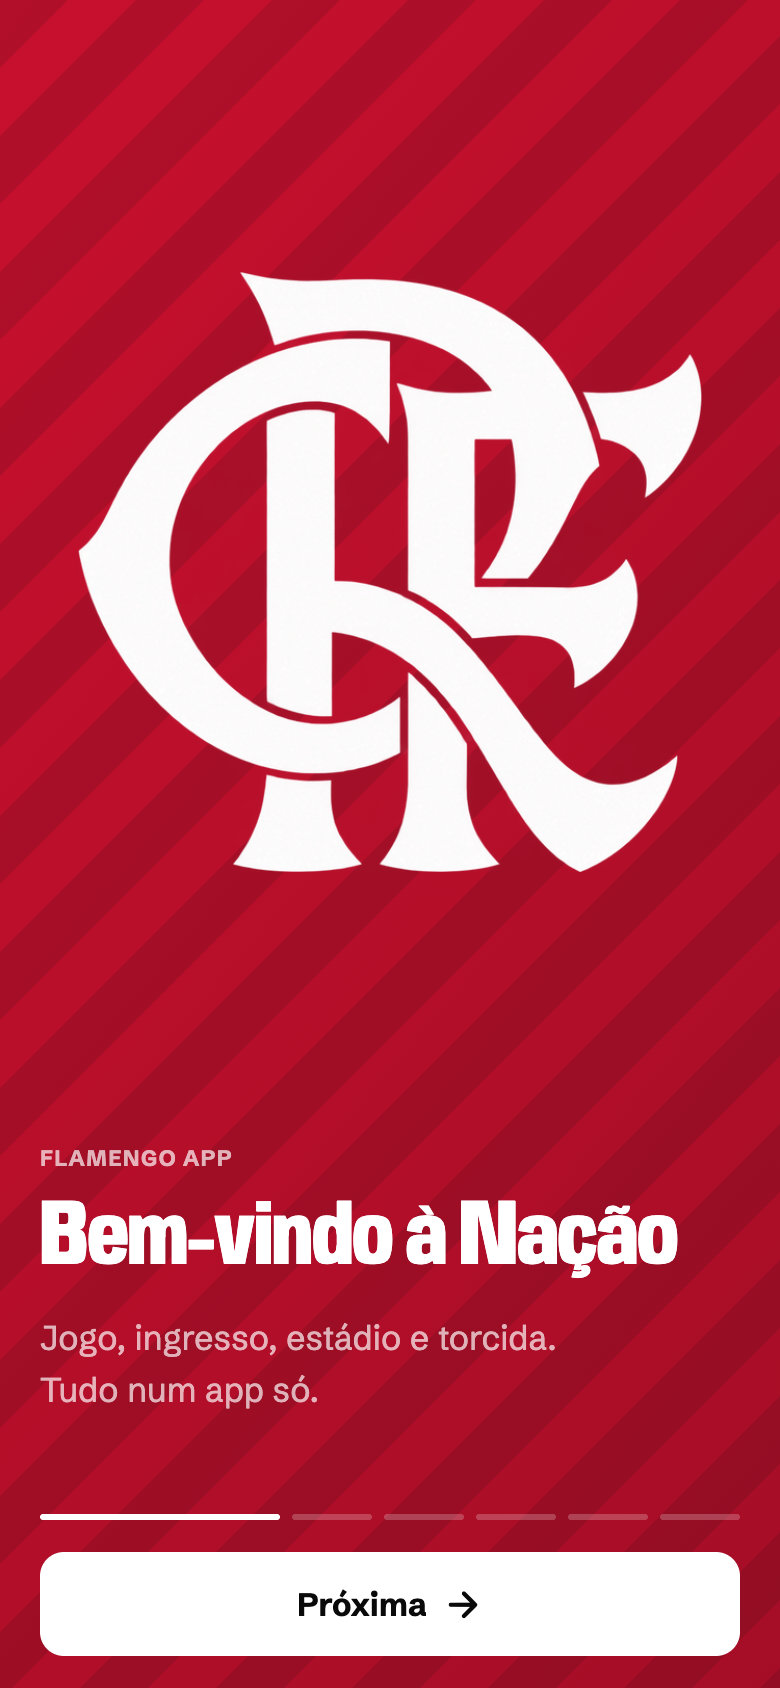
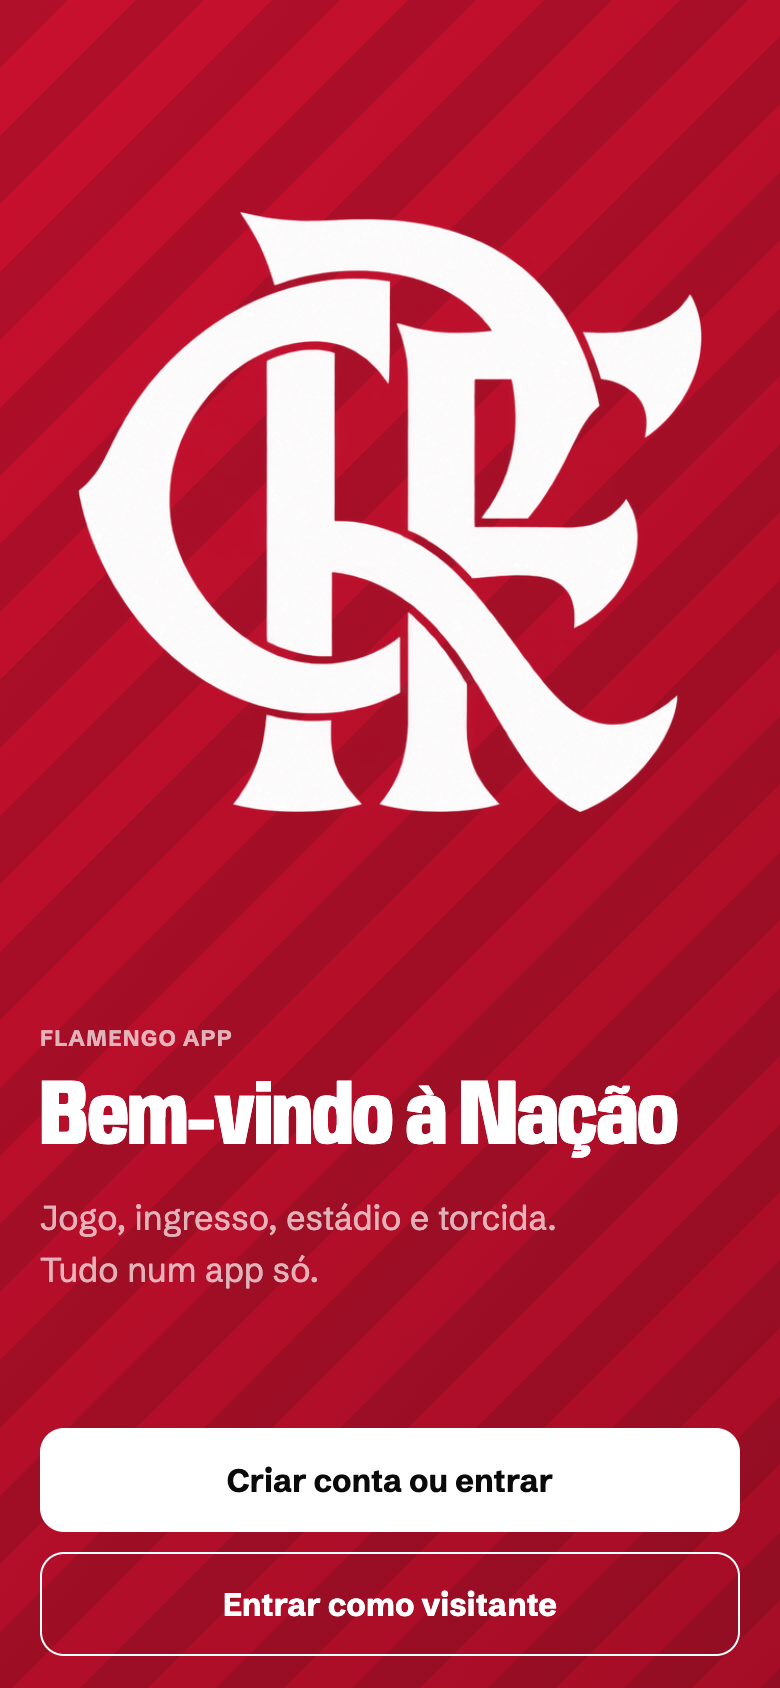
feat(onboarding): abertura fixa primeiro; carrossel depois de entrar
- primeira tela: só a abertura vermelha com criar conta ou visitante
- carrossel com as cinco áreas vem depois de entrar
- ídolos e alertas só para quem entrou com conta
- visitante termina o carrossel em "Entrar no app"

Changed region(s): [[0.0308, 0.5853, 0.9538, 0.9858], [0.0923, 0.1232, 0.9231, 0.5237], [0.2462, 0.5853, 0.2769, 0.6161]]

diff --git a/src/__tests__/guidance.test.tsx b/src/__tests__/guidance.test.tsx
@@ -16,6 +16,7 @@ jest.mock('@react-native-async-storage/async-storage', () =>
 );
 jest.mock('@expo/vector-icons', () => ({ Ionicons: () => null }));
 let mockOwner = 'visitor';
+let mockGuest = false;
 let mockFocused = true;
 const mockUpdateProfile = jest.fn();
 const mockFavorite = jest.fn();
@@ -28,8 +29,8 @@ jest.mock('@/features/auth/AuthProvider', () => ({
   useAuth: () => ({
     ready: true,
     session: mockOwner === 'visitor' ? null : { user: { id: mockOwner } },
-    isGuest: true,
-    accountProfile: null,
+    isGuest: mockGuest,
+    accountProfile: mockGuest ? null : { id: mockOwner },
     registering: false,
     enterAsGuest: mockEnterAsGuest,
   }),
@@ -95,6 +96,7 @@ describe('recursos nas boas-vindas e primeiro uso', () => {
     jest.clearAllMocks();
     mockFocused = true;
     mockOwner = `test-${++run}`;
+    mockGuest = false;
   });
   afterEach(async () => {
     await act(async () => {
@@ -102,19 +104,28 @@ describe('recursos nas boas-vindas e primeiro uso', () => {
     });
   });
 
-  it('boas-vindas: carrossel, conta, ídolos e alertas, sem mexer nas preferências', async () => {
+  const throughTour = async (done: string) => {
+    expect(has('O jogo no seu bolso')).toBe(true);
+    for (let i = 0; i < 4; i++) await press('Próxima');
+    await press(done);
+  };
+
+  it('com conta: abertura fixa, conta, carrossel, ídolos e alertas', async () => {
     await mount(
       <OnboardingGate>
         <Text>Aplicativo principal</Text>
       </OnboardingGate>
     );
     expect(has('Bem-vindo à Nação')).toBe(true);
+    // A abertura é uma tela só: o carrossel vem depois de entrar.
+    expect(has('O jogo no seu bolso')).toBe(false);
     await press('Criar conta ou entrar');
-    await press('Entrar como visitante');
+    await press('Entrar como visitante'); // AuthScreen simulado: continua
+    await throughTour('Continuar');
     expect(has('Seus ídolos')).toBe(true);
     const progress = screen.root
       .findAllByProps({ accessibilityRole: 'progressbar' })
-      .find((control) => control.props.accessibilityLabel === 'Passo 2 de 3');
+      .find((control) => control.props.accessibilityLabel === 'Passo 1 de 2');
     expect(progress).toBeDefined();
     await press('Continuar com 2');
     expect(has('Não perca nenhum gol')).toBe(true);
@@ -125,15 +136,18 @@ describe('recursos nas boas-vindas e primeiro uso', () => {
     expect(mockFavorite).not.toHaveBeenCalled();
   });
 
-  it('entra como visitante direto do carrossel', async () => {
+  it('visitante: carrossel e direto para o app, sem ídolos nem alertas', async () => {
     await mount(
       <OnboardingGate>
         <Text>Aplicativo principal</Text>
       </OnboardingGate>
     );
+    mockGuest = true;
     await press('Entrar como visitante');
     expect(mockEnterAsGuest).toHaveBeenCalledTimes(1);
-    expect(has('Seus ídolos')).toBe(true);
+    await throughTour('Entrar no app');
+    expect(has('Seus ídolos')).toBe(false);
+    expect(has('Aplicativo principal')).toBe(true);
   });
 
   it('volta dos alertas aos ídolos e pula direto para o app', async () => {
@@ -144,6 +158,7 @@ describe('recursos nas boas-vindas e primeiro uso', () => {
     );
     await press('Criar conta ou entrar');
     await press('Entrar como visitante');
+    await throughTour('Continuar');
     await press('Continuar com 2');
     await pressControl('Voltar');
     expect(has('Seus ídolos')).toBe(true);
@@ -152,17 +167,11 @@ describe('recursos nas boas-vindas e primeiro uso', () => {
     expect(await AsyncStorage.getItem('@flamengo/onboarding-done')).toBe('1');
   });
 
-  it('o carrossel mostra as seis áreas, com o Modo Maracanã em 3D e sem mascote', async () => {
-    await mount(<WelcomeCarousel onStart={jest.fn()} onGuest={jest.fn()} />);
-    for (const kicker of [
-      'Bem-vindo à Nação',
-      'Dia de jogo',
-      'Modo Maracanã',
-      'Ingressos',
-      'Nação',
-      'Assistente Fla',
-    ])
+  it('o carrossel mostra as cinco áreas, com o Modo Maracanã em 3D e sem mascote', async () => {
+    await mount(<WelcomeCarousel mode="tour" onClose={jest.fn()} />);
+    for (const kicker of ['Dia de jogo', 'Modo Maracanã', 'Ingressos', 'Nação', 'Assistente Fla'])
       expect(has(kicker)).toBe(true);
+    expect(has('Bem-vindo à Nação')).toBe(false);
     expect(has('O Maracanã em 3D')).toBe(true);
     expect(screen.root.findAllByType(Mascot)).toHaveLength(0);
   });
@@ -171,7 +180,7 @@ describe('recursos nas boas-vindas e primeiro uso', () => {
     const done = jest.fn();
     const before = JSON.stringify(DEMO_FAN);
     await mount(<WelcomeCarousel mode="tour" onClose={done} />);
-    for (let i = 0; i < 5; i++) await press('Próxima');
+    for (let i = 0; i < 4; i++) await press('Próxima');
     await press('Pronto');
     expect(done).toHaveBeenCalledTimes(1);
     expect(JSON.stringify(DEMO_FAN)).toBe(before);

diff --git a/src/features/onboarding/Onboarding.tsx b/src/features/onboarding/Onboarding.tsx
@@ -92,45 +92,62 @@ const ALERTS: { key: keyof NotificationPrefs; label: string; hint: string }[] = 
   { key: 'tickets', label: 'Venda de ingressos', hint: 'Quando abrir a venda' },
 ];
 
-/** Passos depois do carrossel: conta, ídolos e alertas. */
-const STEPS = 3;
+/** Passos depois do carrossel, só para quem entrou com conta: ídolos e alertas. */
+const STEPS = 2;
+
+type Page = 'welcome' | 'auth' | 'tour' | 'idols' | 'alerts';
 
 /**
- * Boas-vindas: carrossel das áreas do app (desliza e passa sozinho) → conta ou visitante →
- * ídolos → alertas. Ídolos e alertas usam o cabeçalho das abas e listas com fio fino.
+ * Primeiro acesso: abertura vermelha fixa (criar conta ou visitante) → conta → carrossel com as
+ * áreas do app → ídolos e alertas, só com conta (visitante não tem onde guardar essas escolhas).
+ * Ídolos e alertas usam o cabeçalho das abas e listas com fio fino.
  */
 function OnboardingFlow({ onDone }: { onDone: () => void }) {
   const { colors, layout } = useTheme();
-  const { enterAsGuest } = useAuth();
+  const { enterAsGuest, isGuest } = useAuth();
   const { profile, updateProfile, toggleFavoritePlayer } = useAppState();
   const squad = useAsync(() => services.matches.getSquad());
-  const [page, setPage] = useState(0);
-  const go = (p: number) => {
+  const [page, setPage] = useState<Page>('welcome');
+  const go = (p: Page) => {
     haptic.select();
     setPage(p);
   };
   const favs = profile?.favoritePlayerIds ?? [];
 
-  if (page === 0)
+  if (page === 'welcome')
     return (
       <WelcomeCarousel
-        onStart={() => go(1)}
+        onStart={() => go('auth')}
         onGuest={async () => {
           haptic.select();
           await enterAsGuest();
-          setPage(2);
+          setPage('tour');
         }}
       />
     );
 
-  if (page === 1)
+  if (page === 'auth')
     return (
       <SafeAreaView style={{ flex: 1, backgroundColor: colors.bgCanvas }}>
-        <AuthScreen onContinue={() => go(2)} onBack={() => go(0)} />
+        <AuthScreen onContinue={() => go('tour')} onBack={() => go('welcome')} />
       </SafeAreaView>
     );
 
-  const step = page - 1; // 1 = ídolos, 2 = alertas
+  if (page === 'tour')
+    return (
+      <WelcomeCarousel
+        mode="tour"
+        doneLabel={isGuest ? 'Entrar no app' : 'Continuar'}
+        onClose={() => {
+          if (isGuest) {
+            haptic.success();
+            onDone();
+          } else go('idols');
+        }}
+      />
+    );
+
+  const step = page === 'idols' ? 0 : 1;
   return (
     <SafeAreaView style={{ flex: 1, backgroundColor: colors.bgCanvas }}>
       <View
@@ -145,7 +162,7 @@ function OnboardingFlow({ onDone }: { onDone: () => void }) {
           icon="chevron-back"
           variant="plain"
           accessibilityLabel="Voltar"
-          onPress={() => go(page === 2 ? 0 : page - 1)}
+          onPress={() => go(page === 'idols' ? 'tour' : 'idols')}
         />
         <Pressable
           onPress={onDone}
@@ -159,7 +176,7 @@ function OnboardingFlow({ onDone }: { onDone: () => void }) {
         </Pressable>
       </View>
 
-      {page === 2 && (
+      {page === 'idols' && (
         <View style={{ flex: 1 }}>
           <TabHeader
             title="Seus ídolos"
@@ -222,7 +239,7 @@ function OnboardingFlow({ onDone }: { onDone: () => void }) {
         </View>
       )}
 
-      {page === 3 && (
+      {page === 'alerts' && (
         <ScrollView style={{ flex: 1 }} contentContainerStyle={{ paddingBottom: 24 }}>
           <TabHeader
             title="Não perca nenhum gol"
@@ -287,12 +304,14 @@ function OnboardingFlow({ onDone }: { onDone: () => void }) {
           ))}
         </View>
         <Button
-          label={page === 2 ? (favs.length ? `Continuar com ${favs.length}` : 'Continuar') : 'Entrar no app'}
-          icon={page === 3 ? 'checkmark' : 'arrow-forward'}
+          label={
+            page === 'idols' ? (favs.length ? `Continuar com ${favs.length}` : 'Continuar') : 'Entrar no app'
+          }
+          icon={page === 'alerts' ? 'checkmark' : 'arrow-forward'}
           iconPosition="right"
           fullWidth
           onPress={() => {
-            if (page === 2) go(3);
+            if (page === 'idols') go('alerts');
             else {
               haptic.success();
               onDone();

diff --git a/src/features/onboarding/WelcomeCarousel.tsx b/src/features/onboarding/WelcomeCarousel.tsx
@@ -41,18 +41,22 @@ interface Slide {
  * até a última tela. Estrutura fixa em todas: arte no alto (sempre abaixo da barra de status e
  * cortada no próprio espaço, nunca invade o texto), depois sobrelinha, título, uma linha de
  * texto e a faixa com o que a área tem. Só a abertura é vermelha; o resto é preto.
- * `mode="tour"`: revisto pelas configurações.
+ * `mode="welcome"`: só a abertura vermelha, fixa, com "Criar conta ou entrar" e "Entrar como
+ * visitante" (a primeira tela do app). `mode="tour"`: as áreas do app, depois de entrar e
+ * também pelas configurações; o último botão diz `doneLabel`.
  */
 export function WelcomeCarousel({
   mode = 'welcome',
   onStart,
   onGuest,
   onClose,
+  doneLabel = 'Pronto',
 }: {
   mode?: 'welcome' | 'tour';
   onStart?: () => void;
   onGuest?: () => void;
   onClose?: () => void;
+  doneLabel?: string;
 }) {
   const { layout } = useTheme();
   const { width: W, height: H } = useWindowDimensions();
@@ -70,7 +74,7 @@ export function WelcomeCarousel({
       .catch(() => undefined);
   }, []);
 
-  const slides = SLIDES;
+  const slides = mode === 'welcome' ? SLIDES.slice(0, 1) : SLIDES.slice(1);
   const last = index === slides.length - 1;
   const footerH = (mode === 'welcome' ? 156 : 96) + Math.max(insets.bottom, 16);
   // Faixa livre no alto: nada da arte fica sob o relógio e a bateria.
@@ -169,24 +173,26 @@ export function WelcomeCarousel({
           gap: 16,
         }}
       >
-        <View
-          accessible
-          accessibilityRole="progressbar"
-          accessibilityLabel={`Tela ${index + 1} de ${slides.length}`}
-          style={{ flexDirection: 'row', gap: 6 }}
-        >
-          {slides.map((_, i) => (
-            <View
-              key={i}
-              style={{
-                height: 3,
-                flex: i === index ? 3 : 1,
-                borderRadius: 2,
-                backgroundColor: i === index ? WHITE : 'rgba(255,255,255,0.22)',
-              }}
-            />
-          ))}
-        </View>
+        {slides.length > 1 && (
+          <View
+            accessible
+            accessibilityRole="progressbar"
+            accessibilityLabel={`Tela ${index + 1} de ${slides.length}`}
+            style={{ flexDirection: 'row', gap: 6 }}
+          >
+            {slides.map((_, i) => (
+              <View
+                key={i}
+                style={{
+                  height: 3,
+                  flex: i === index ? 3 : 1,
+                  borderRadius: 2,
+                  backgroundColor: i === index ? WHITE : 'rgba(255,255,255,0.22)',
+                }}
+              />
+            ))}
+          </View>
+        )}
         {mode === 'welcome' ? (
           <View style={{ gap: 10 }}>
             <Button
@@ -202,7 +208,7 @@ export function WelcomeCarousel({
           </View>
         ) : (
           <Button
-            label={last ? 'Pronto' : 'Próxima'}
+            label={last ? doneLabel : 'Próxima'}
             variant="light"
             icon={last ? 'checkmark' : 'arrow-forward'}
             iconPosition="right"
